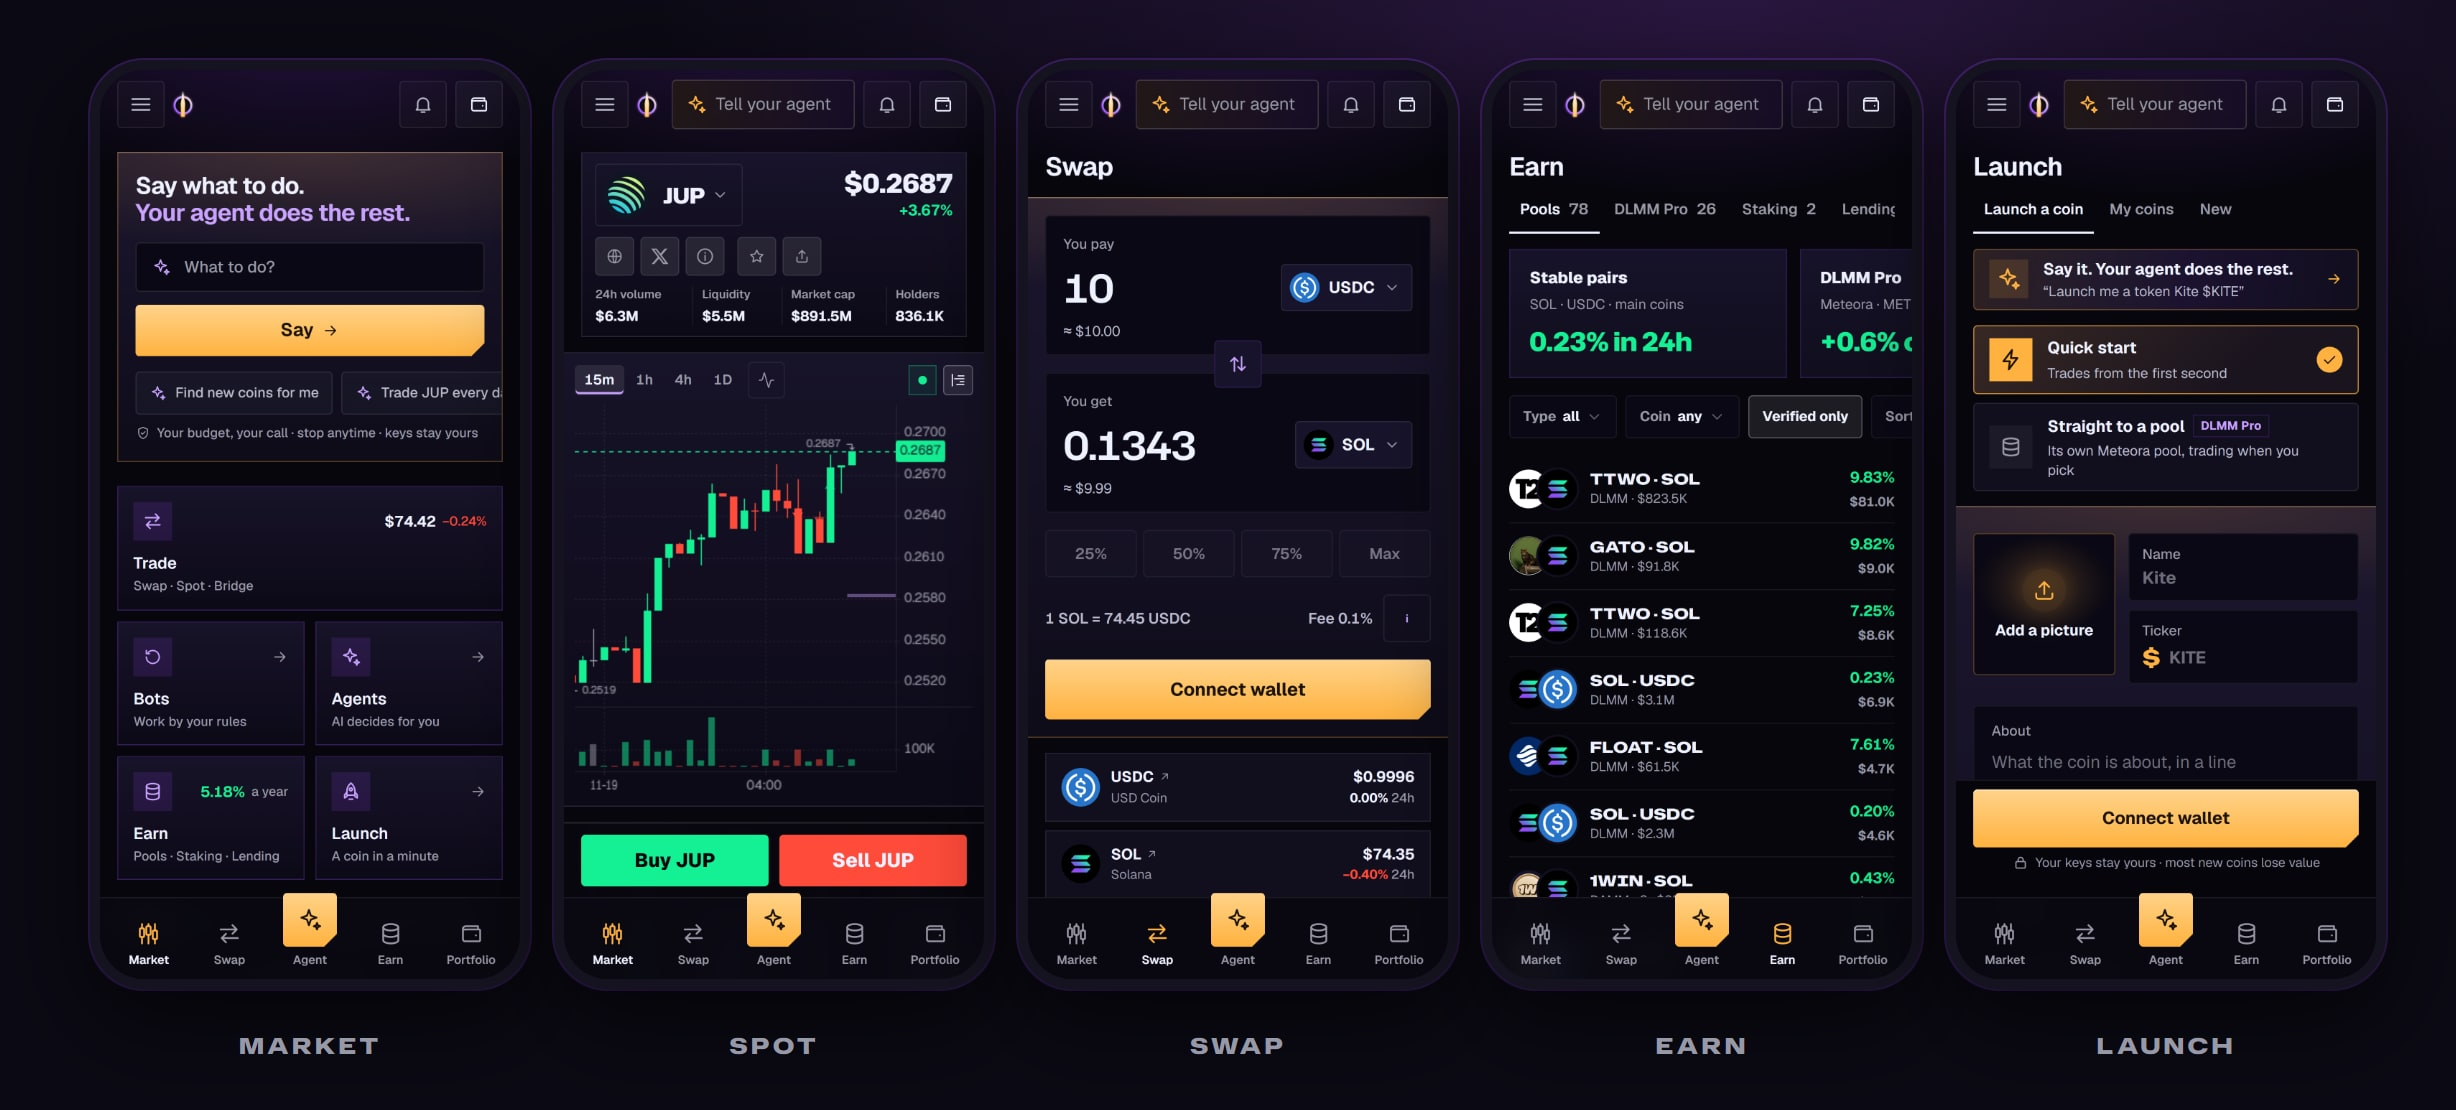
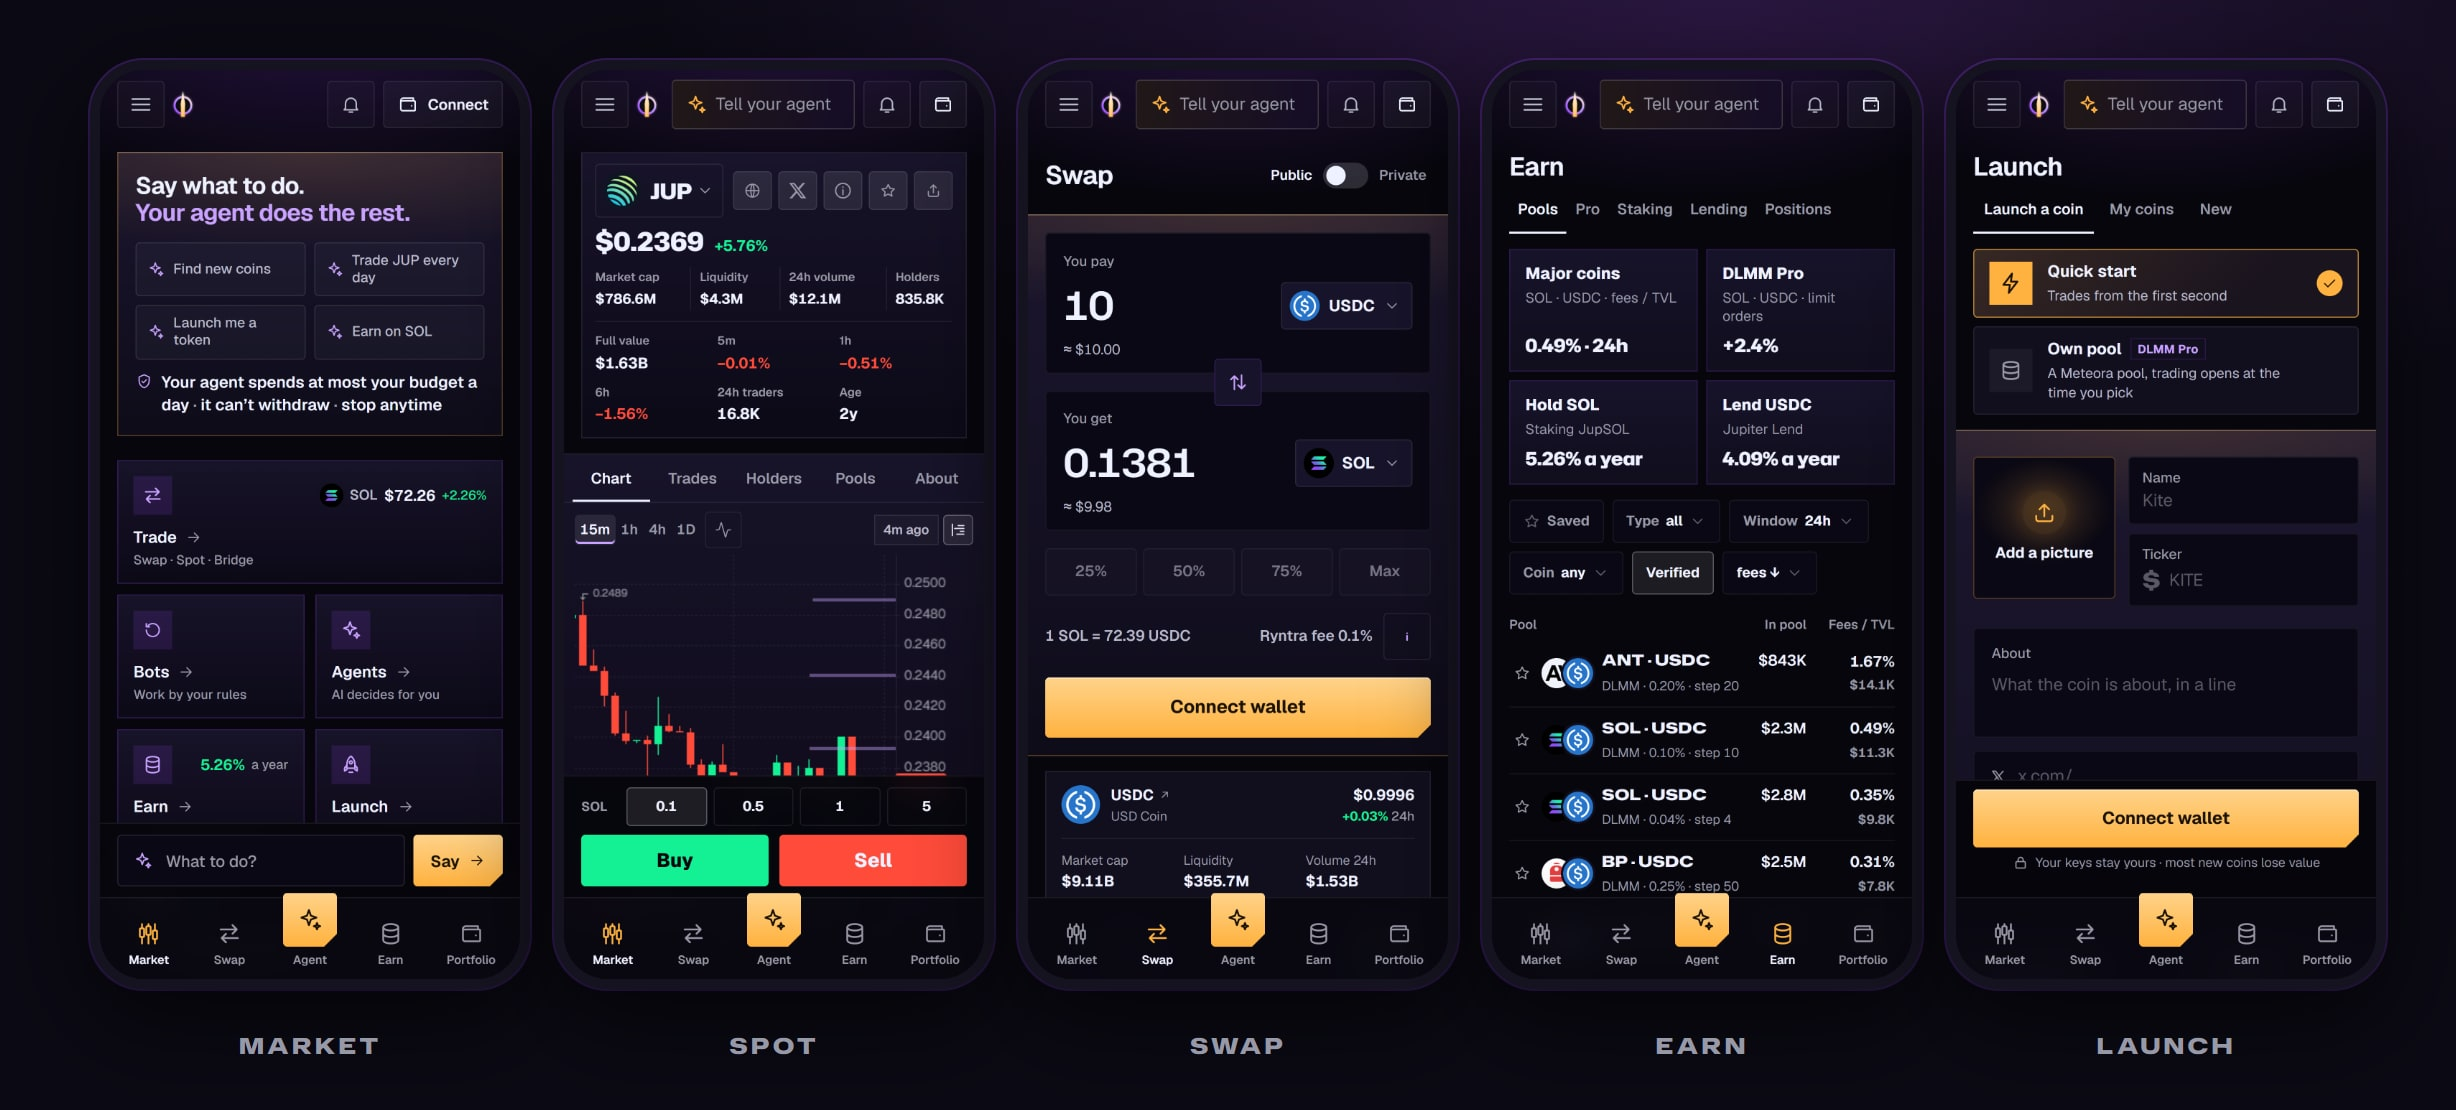
The agent sells on its own; bots and wallet copying trade on your budget

diff --git a/profile/README.md b/profile/README.md
@@ -16,9 +16,10 @@
 
 ---
 
-Tell your agent *“trade JUP every day”* or *“launch me a token”*, sign its budget once in your own wallet, and it
-does the work inside limits that live on-chain. Swap and bridge, spot with limit orders, bots, Earn and launches — on
-the web, on any phone and as an Android app.
+Tell your agent *“trade JUP every day”*, *“copy this wallet”* or *“launch me a token”*, sign its budget once in your own
+wallet, and it does the work inside limits that live on-chain: it buys by its plan and sells on its own at your stop,
+the money landing only in your wallet. Swap and bridge, spot with limit orders, bots that trade on your budget — a grid,
+copying a wallet — Earn on any coin's page, and launches — on the web, on any phone and as an Android app.
 
 **Live on Solana mainnet, Meteora DLMM Pro included:** positions of many ranges in a shape you can paint, limit orders with a maker bonus, a
 grid on those orders and launches straight into a pool — each signed in your own wallet.
